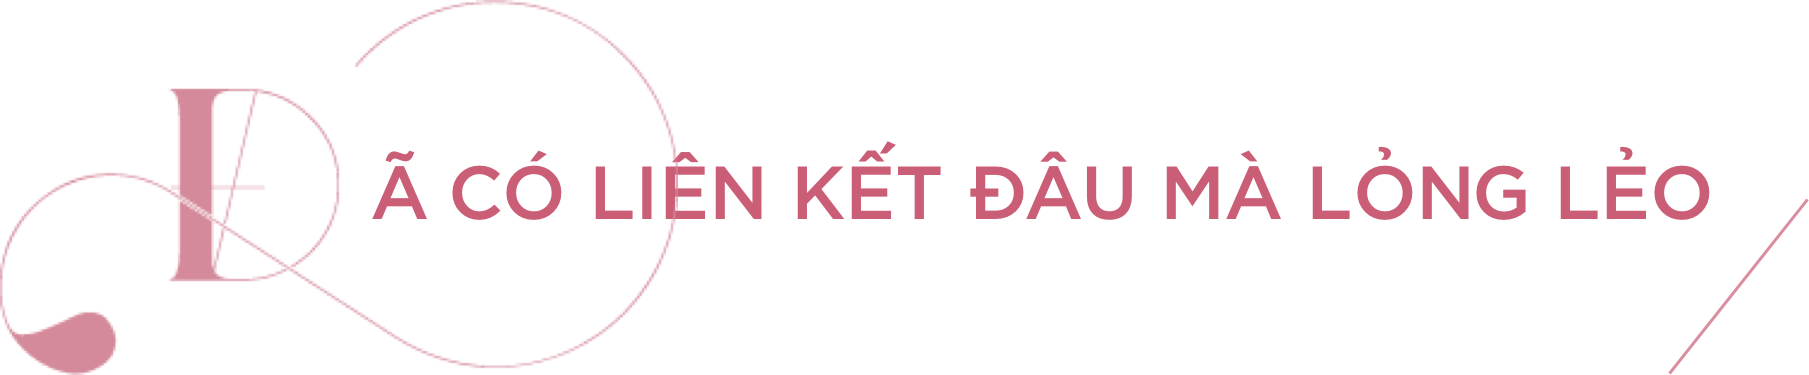
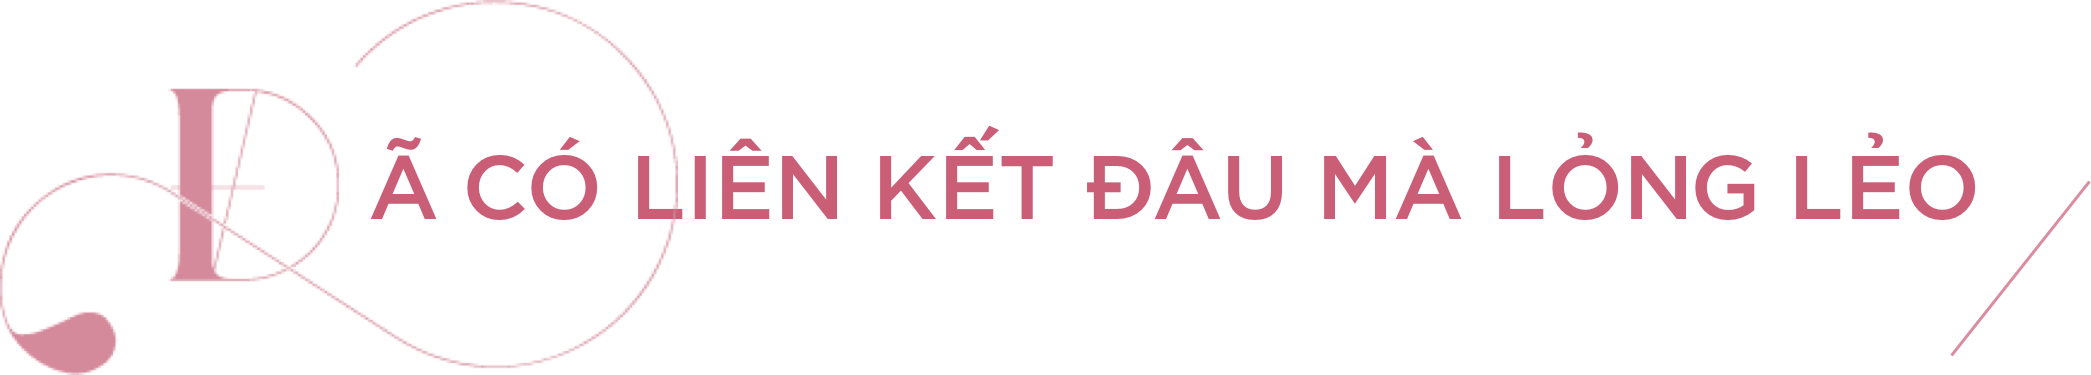
new 04

diff --git a/index.html b/index.html
@@ -49,8 +49,7 @@
         <div class="container content">
 
             <div class="image_tilte_content desktop_image">
-                <img src="assets/images/title-1.png" srcset="assets/images/title-1@2x.png 2x,assets/images/title-1@3x.png 3x"
-                    class="Title_1 align-middle">
+                <img src="assets/images/title-1.png" srcset="assets/images/title-1@2x.png 2x,assets/images/title-1@3x.png 3x" class="Title_1 align-middle">
             </div>
 
             <div class="image_tilte_content mobile_image">
@@ -242,14 +241,13 @@
             </div>
 
             <div class="image_tilte_content desktop_image">
-                <img src="assets/images/quote-1.png" srcset="assets/images/quote-1@2x.png 2x, assets/images/quote-1@3x.png 3x"
-                    class="IG_1">
+                <img src="assets/images/quote-1.png" srcset="assets/images/quote-1@2x.png 2x, assets/images/quote-1@3x.png 3x" class="quote">
 
             </div>
 
             <div class="image_tilte_content mobile_image">
                 <img src="assets/images/mobile/quote-1.png" srcset="assets/images/mobile/quote-1@2x.png 2x, assets/images/mobile/quote-1@3x.png 3x"
-                    class="IG_1">
+                    class="quote">
             </div>
 
             <div class="image_tilte_content desktop_image">
@@ -345,7 +343,7 @@
                 </p>
             </div>
 
-            <div>
+            <div class="image_and_text">
                 <table>
                     <div class="image_tilte_content" style="padding-top: 0%; ">
                         <a href="assets/images/iv-5.png" data-toggle="lightbox">
@@ -354,38 +352,39 @@
                     </div>
                     <th>
                         <div class="text_content" style="font-weight: normal;">
-                            <p>Dự báo trước là khó. Tuy nhiên nhìn vào bối cảnh kinh tế chung của thế giới năm 2018 có nhiều
+                            <p class="text_table">Dự báo trước là khó. Tuy nhiên nhìn vào bối cảnh kinh tế chung của thế giới năm 2018 có nhiều
                                 hy vọng tăng trưởng tốt hơn, từ năm 2016 kinh tế thế giới có vẻ phục hồi dần, năm 2017 các
                                 kết quả chung của toàn cầu hay khu vực tương đối khá.</p>
-                            <p>Các tổ chức quan trọng nhất như Ngân hàng Thế giới (WB), Quỹ tiền tệ Quốc tế (IMF) đều đánh giá
+                            <p class="text_table">Các tổ chức quan trọng nhất như Ngân hàng Thế giới (WB), Quỹ tiền tệ Quốc tế (IMF) đều đánh giá
                                 giai đoạn 2018-2019 kinh tế toàn cầu khả quan hơn.</p>
-                            <p>Tôi cũng mong Việt Nam tận dụng tận dụng được bối cảnh tăng trưởng chung của toàn cầu để thúc
+                            <p class="text_table">Tôi cũng mong Việt Nam tận dụng tận dụng được bối cảnh tăng trưởng chung của toàn cầu để thúc
                                 đẩy các ngành của mình tiếp tục đạt tăng trưởng tốt hơn.</p>
-                            <p>Tuy nhiên, tăng trưởng của Việt Nam phải có tính bền vững. Tôi sợ những nhân tố tạo cho Việt
+                            <p class="text_table">Tuy nhiên, tăng trưởng của Việt Nam phải có tính bền vững. Tôi sợ những nhân tố tạo cho Việt
                                 Nam tăng trưởng 2017 vẫn chưa đủ để đảm bảo cho 2018 có thể đạt mức tăng trưởng tương tự
                                 năm 2017 nên chúng vẫn phải cố gắng nhiều lắm.</p>
-                            <p>Nhất là cải cách thể chế, tạo môi trường kinh doanh tốt cho doanh nghiệp. Mong là nỗ lực của
-                                Chính phủ cải thiện cho môi trường kinh doanh nó phải biến thành cố gắng của toàn bộ hệ thống,
-                                nhất là bộ máy của cấp dưới từ các bộ ngành, địa phương.</p>
-                            <p>Những người đứng đầu Chính phủ rất quyết tâm và tâm huyết nhưng nếu bộ máy ở dưới không chuyển
-                                động theo, thì khó mà đạt được kết quả.</p>
-                            <p>Thực tế tôi thấy độ chuyển động của bộ máy bên dưới chậm lắm.</p>
 
                         </div>
                     </th>
                 </table>
             </div>
+            <div class="text_content">
+                <p>Nhất là cải cách thể chế, tạo môi trường kinh doanh tốt cho doanh nghiệp. Mong là nỗ lực của Chính phủ cải
+                    thiện cho môi trường kinh doanh nó phải biến thành cố gắng của toàn bộ hệ thống, nhất là bộ máy của cấp
+                    dưới từ các bộ ngành, địa phương.</p>
+                <p>Những người đứng đầu Chính phủ rất quyết tâm và tâm huyết nhưng nếu bộ máy ở dưới không chuyển động theo,
+                    thì khó mà đạt được kết quả.</p>
+                <p>Thực tế tôi thấy độ chuyển động của bộ máy bên dưới chậm lắm.</p>
+            </div>
 
             <div class="image_tilte_content desktop_image">
-                    <img src="assets/images/quote-2.png" srcset="assets/images/quote-2@2x.png 2x, assets/images/quote-2@3x.png 3x"
-                        class="IG_1">
-    
-                </div>
-    
-                <div class="image_tilte_content mobile_image">
-                    <img src="assets/images/mobile/quote-2.png" srcset="assets/images/mobile/quote-2@2x.png 2x, assets/images/mobile/quote-2@3x.png 3x"
-                        class="IG_1">
-                </div>
+                <img src="assets/images/quote-2.png" srcset="assets/images/quote-2@2x.png 2x, assets/images/quote-2@3x.png 3x" class="quote">
+
+            </div>
+
+            <div class="image_tilte_content mobile_image">
+                <img src="assets/images/mobile/quote-2.png" srcset="assets/images/mobile/quote-2@2x.png 2x, assets/images/mobile/quote-2@3x.png 3x"
+                    class="quote">
+            </div>
 
             <div>
                 <p class="text_question">

diff --git a/assets/css/style.css b/assets/css/style.css
@@ -333,17 +333,11 @@ body {
     font-style: normal;
     text-align: justify;
     color: #000000;
+    margin: 0 auto;
 }
 
 .content {
     margin-top: 2%;
-}
-
-p {
-    margin-top: 2%;
-    margin-bottom: 2%;
-    width: 660px !important;
-    margin: 0 auto !important;
 }
 
 
@@ -588,12 +582,24 @@ div.relative {
 }
 
 @media (min-width: 0px) and (max-width: 777px) {
+    p {
+        margin-top: 2%;
+        margin-bottom: 2%;
+    }
+    .image_and_text {
+        width: 100%;
+        margin: 0 auto;
+    }
     .Title_1 {
         width: 100%;
         object-fit: contain;
         margin: 0 auto;
     }
     .IG_1 {
+        width: 100%;
+        object-fit: contain;
+    }
+    .quote {
         width: 100%;
         object-fit: contain;
     }
@@ -641,6 +647,17 @@ div.relative {
 }
 
 @media (min-width: 778px) and (max-width: 1250px) {
+    p {
+        margin-top: 2%;
+        margin-bottom: 2%;
+        width: 660px !important;
+        margin: 0 auto !important;
+    }
+
+    .image_and_text {
+        width: 660px;
+        margin: 0 auto;
+    }
     .Title_1 {
         width: 60%;
         object-fit: contain;
@@ -648,6 +665,10 @@ div.relative {
     }
     .IG_1 {
         width: 90%;
+        object-fit: contain;
+    }
+    .quote {
+        width: 660px;
         object-fit: contain;
     }
     .grid_div {
@@ -672,7 +693,7 @@ div.relative {
         color: #ffffff;
     }
     .info_user {
-        width: 100%;
+        width: 690px;
         background-color: #d98d9e;
         color: white;
         padding: 20px;
@@ -681,7 +702,7 @@ div.relative {
     }
     .iG_7 {
         float: left;
-        width: 40%;
+        width: 100%;
         margin-right: 20px;
     }
     .iv_17 {
@@ -693,12 +714,14 @@ div.relative {
     }
 }
 
-.IG_15 {
-    width: 100%;
-    object-fit: contain;
-}
-
 @media (min-width: 1251px) {
+    .text_table {
+        width: 400px !important;
+    }
+    .image_and_text {
+        width: 760px;
+        margin: 0 auto;
+    }
     .Title_1 {
         width: 591px;
         object-fit: contain;
@@ -708,8 +731,8 @@ div.relative {
         width: 977px;
         object-fit: contain;
     }
-    .IG_15 {
-        width: 1130px;
+    .quote {
+        width: 660px;
         object-fit: contain;
     }
     .grid_div {
@@ -735,7 +758,7 @@ div.relative {
         color: #ffffff;
     }
     .info_user {
-        width: 100%;
+        width: 748px;
         background-color: #d98d9e;
         color: white;
         padding: 52px;
@@ -961,6 +984,7 @@ div.relative {
     text-align: center;
     width: 100%;
     padding-bottom: 3%;
+    padding-top: 3%;
     margin: 0 auto;
 }
 
